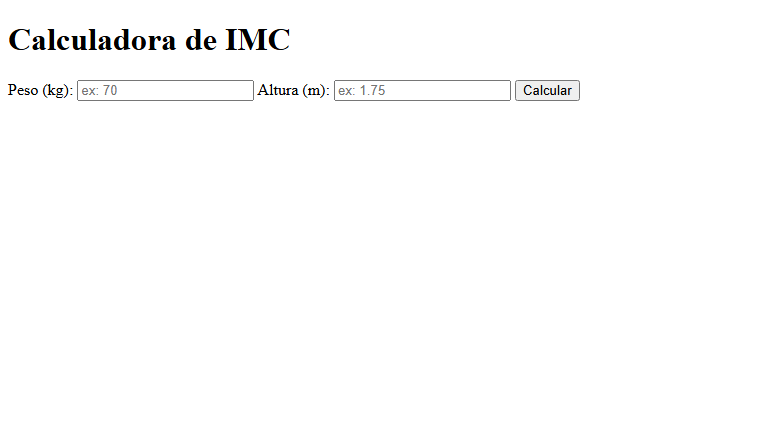
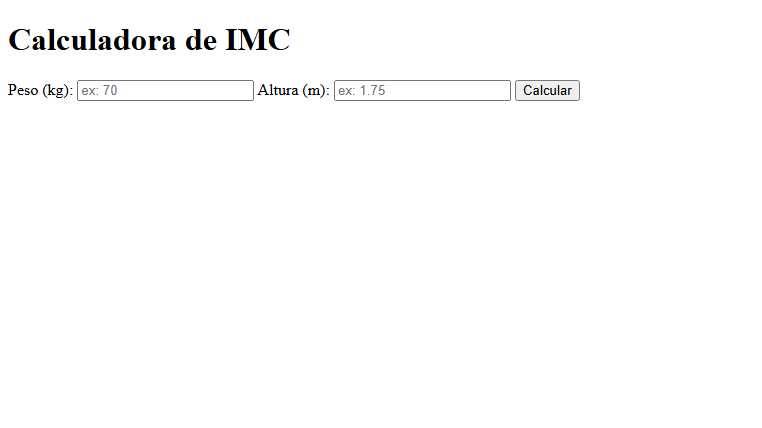
Atualizando projeto

Changed region(s): [[0.0, 0.1822, 0.7546, 0.243], [0.0, 0.0607, 0.3924, 0.1215]]

diff --git a/api/tests/api.test.js b/api/tests/api.test.js
@@ -1,12 +1,12 @@
 const { calcularIMC } = require('../src/imc');
 
-describe('Teste de cálculo de IMC', () => {
+describe('teste de cálculo de IMC', () => {
 
-    test('IMC de 70kg e 1.75m', () => {
-        const resultado = calcularIMC(70, 1.75);
+    test(' 30kg e 1.30m', () => {
+        const resultado = calcularIMC(30, 1.30);
 
-        expect(resultado.imc).toBeCloseTo(22.86, 2);
-        expect(resultado.classificacao).toBe('Peso normal');
+        expect(resultado.imc).toBeCloseTo(17.75, 2);
+        expect(resultado.classificacao).toBe('Abaixo do peso');
     });
 
 });

diff --git a/e2e/testes/imc.js b/e2e/testes/imc.js
@@ -3,7 +3,7 @@ const chrome = require('selenium-webdriver/chrome');
 const fs = require('fs');
 const path = require('path');
 
-const BASE_URL = 'http://localhost:3000';
+const BASE_URL = 'http://localhost:8080';
 const SCREENSHOTS_DIR = path.join(__dirname, '..', 'screenshots');
 
 if (!fs.existsSync(SCREENSHOTS_DIR)) {
@@ -50,8 +50,8 @@ async function main() {
 
         console.log('Preenchendo dados...');
 
-        await driver.findElement(By.id('peso')).sendKeys('70');
-        await driver.findElement(By.id('altura')).sendKeys('1.75');
+        await driver.findElement(By.id('peso')).sendKeys('30');
+        await driver.findElement(By.id('altura')).sendKeys('1.30');
 
         await tiraFoto('dados_preenchidos');
 
@@ -69,7 +69,7 @@ async function main() {
 
         console.log('Resultado encontrado:', resultado);
 
-        if (!resultado.includes('22')) {
+        if (!resultado.includes('17.75')) {
             throw new Error(`Resultado inválido: ${resultado}`);
         }
 

diff --git a/api/server.js b/api/server.js
@@ -1,4 +1,4 @@
-const PORT = process.env.PORT || 3000;
+const PORT = process.env.PORT || 8080;
 app.listen(PORT, () => {
   console.log(`Servidor rodando na porta ${PORT}`);
 });

diff --git a/app/index.js b/app/index.js
@@ -2,7 +2,7 @@ const express = require('express');
 const path = require('path');
 
 const app = express();
-const PORT = process.env.PORT || 3000;
+const PORT = process.env.PORT || 8080;
 
 app.set('view engine', 'ejs');
 app.set('views', path.join(__dirname, 'view'));